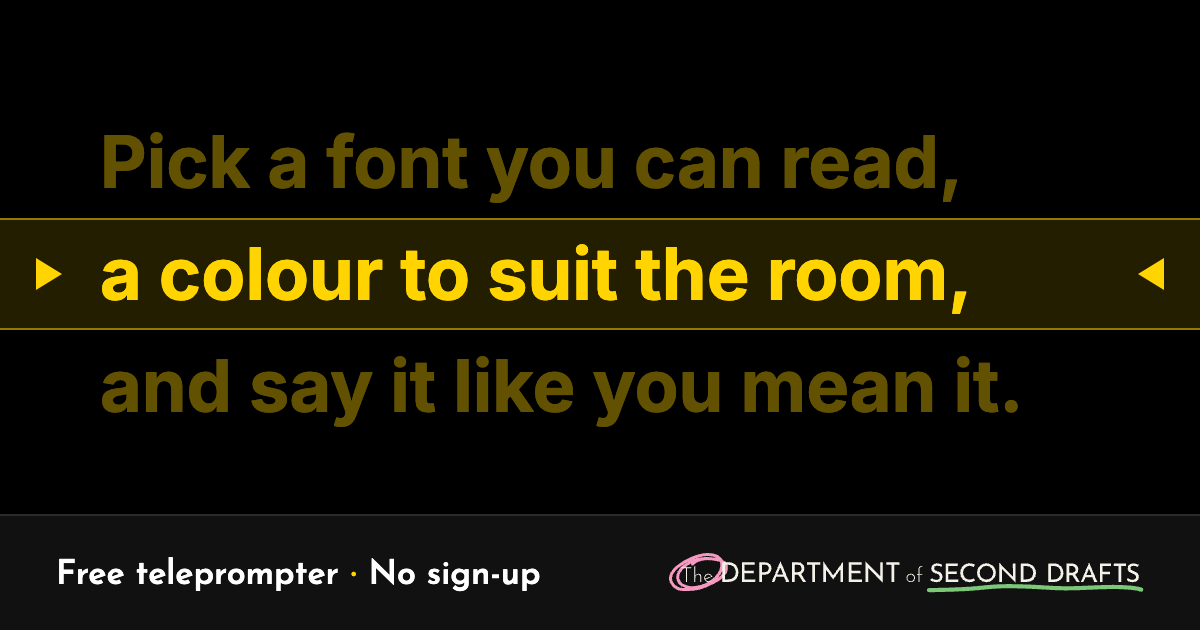
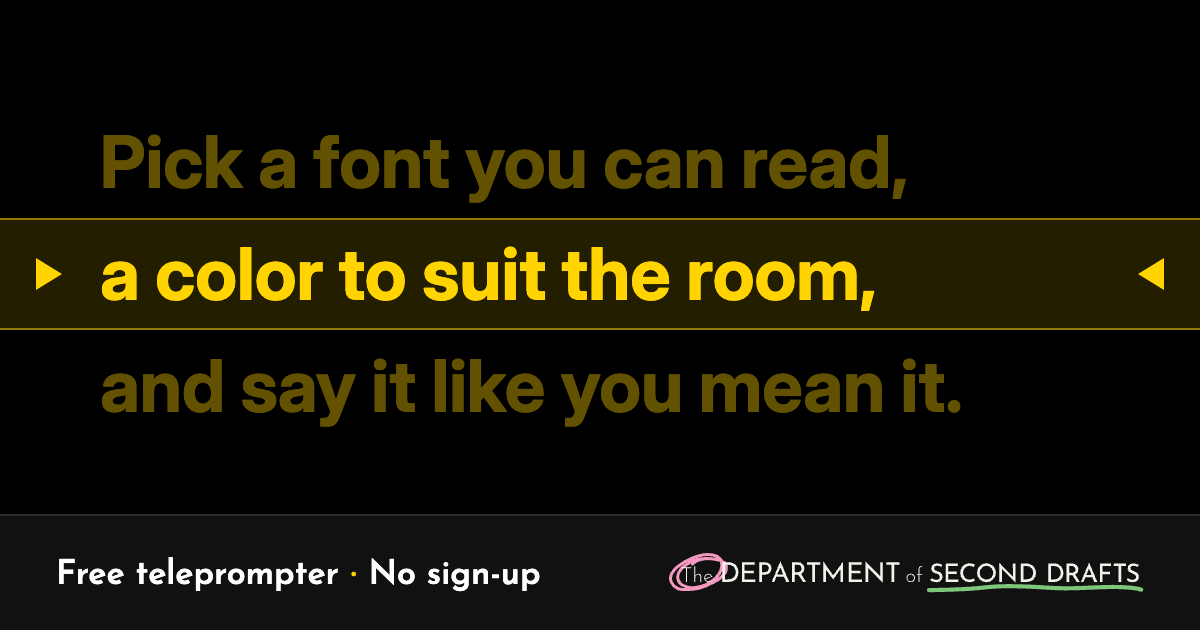
Switch the site to American spelling
Copy, code names, comments, docs and privacy records now use American
spelling, and organisation.ts is renamed organization.ts. The
remember-analysed-draft purposeId stays as it is, because renaming it
would make the privacy lock treat it as a new purpose. Closes pub-mga.

Changed region(s): [[0.0925, 0.5429, 0.8633, 0.6937], [0.0925, 0.3921, 0.8017, 0.5127], [0.0925, 0.2111, 0.8017, 0.3317]]

diff --git a/src/tools/magic-8-ball/lib/share-card.ts b/src/tools/magic-8-ball/lib/share-card.ts
@@ -15,12 +15,12 @@ const QUESTION_MAX_LINES = 4;
 const ELLIPSIS = "…";
 
 const GROUND = "#05060c";
-const VIGNETTE_CENTRE = "#141238";
-const META_COLOUR = "#9a9bbd";
-const QUESTION_COLOUR = "#ecebf5";
-const TRIANGLE_COLOUR = "#1f2cff";
+const VIGNETTE_CENTER = "#141238";
+const META_COLOR = "#9a9bbd";
+const QUESTION_COLOR = "#ecebf5";
+const TRIANGLE_COLOR = "#1f2cff";
 const TRIANGLE_GLOW = "#3b5bff";
-const ANSWER_COLOUR = "#f4f6ff";
+const ANSWER_COLOR = "#f4f6ff";
 
 type Measure = (text: string) => number;
 
@@ -69,21 +69,21 @@ function paintGround(ctx: CanvasRenderingContext2D, size: number): void {
 	ctx.fillStyle = GROUND;
 	ctx.fillRect(0, 0, size, size);
 	const vignette = ctx.createRadialGradient(size / 2, size * 0.55, 0, size / 2, size * 0.55, size * 0.75);
-	vignette.addColorStop(0, VIGNETTE_CENTRE);
+	vignette.addColorStop(0, VIGNETTE_CENTER);
 	vignette.addColorStop(1, GROUND);
 	ctx.fillStyle = vignette;
 	ctx.fillRect(0, 0, size, size);
 }
 
-function setFont(ctx: CanvasRenderingContext2D, font: string, colour: string): void {
+function setFont(ctx: CanvasRenderingContext2D, font: string, color: string): void {
 	ctx.font = font;
-	ctx.fillStyle = colour;
+	ctx.fillStyle = color;
 	ctx.textAlign = "center";
 	ctx.textBaseline = "middle";
 }
 
 function paintMeta(ctx: CanvasRenderingContext2D, text: string, y: number, unit: number): void {
-	setFont(ctx, `400 ${26 * unit}px "IBM Plex Mono"`, META_COLOUR);
+	setFont(ctx, `400 ${26 * unit}px "IBM Plex Mono"`, META_COLOR);
 	ctx.letterSpacing = `${3 * unit}px`;
 	ctx.fillText(text, ctx.canvas.width / 2 + 1.5 * unit, y);
 	ctx.letterSpacing = "0px";
@@ -93,7 +93,7 @@ function paintQuestion(ctx: CanvasRenderingContext2D, question: string, unit: nu
 	const silent = question.trim() === "";
 	const fontSize = 52 * unit;
 	const lineHeight = 70 * unit;
-	setFont(ctx, `${silent ? "italic " : ""}400 ${fontSize}px "Literata"`, QUESTION_COLOUR);
+	setFont(ctx, `${silent ? "italic " : ""}400 ${fontSize}px "Literata"`, QUESTION_COLOR);
 	const measure: Measure = (text) => ctx.measureText(text).width;
 	const lines = silent
 		? [SILENT_QUESTION]
@@ -105,17 +105,17 @@ function paintQuestion(ctx: CanvasRenderingContext2D, question: string, unit: nu
 function paintTriangle(ctx: CanvasRenderingContext2D, answerText: string, unit: number): void {
 	const width = 700 * unit;
 	const height = 606 * unit;
-	const centreX = ctx.canvas.width / 2;
+	const centerX = ctx.canvas.width / 2;
 	const top = 440 * unit;
 
 	ctx.save();
 	ctx.shadowColor = TRIANGLE_GLOW;
 	ctx.shadowBlur = 90 * unit;
-	ctx.fillStyle = TRIANGLE_COLOUR;
+	ctx.fillStyle = TRIANGLE_COLOR;
 	ctx.beginPath();
-	ctx.moveTo(centreX, top);
-	ctx.lineTo(centreX + width / 2, top + height);
-	ctx.lineTo(centreX - width / 2, top + height);
+	ctx.moveTo(centerX, top);
+	ctx.lineTo(centerX + width / 2, top + height);
+	ctx.lineTo(centerX - width / 2, top + height);
 	ctx.closePath();
 	ctx.fill();
 	ctx.restore();
@@ -136,8 +136,8 @@ function paintTriangle(ctx: CanvasRenderingContext2D, answerText: string, unit: 
 			},
 		},
 	);
-	setFont(ctx, fontFor(fit.fontSize), ANSWER_COLOUR);
-	for (const line of fit.lines) ctx.fillText(line.text, centreX, top + line.y);
+	setFont(ctx, fontFor(fit.fontSize), ANSWER_COLOR);
+	for (const line of fit.lines) ctx.fillText(line.text, centerX, top + line.y);
 }
 
 export async function loadShareCardFonts(): Promise<void> {

diff --git a/src/tools/teleprompter/lib/stage.test.ts b/src/tools/teleprompter/lib/stage.test.ts
@@ -41,7 +41,7 @@ describe("stageLook", () => {
 		expect(look.guide).toBe("arrows");
 	});
 
-	it("uses the custom colours for the custom theme", () => {
+	it("uses the custom colors for the custom theme", () => {
 		const custom = { text: "#123456", background: "#abcdef" };
 		const look = stageLook(settings({ theme: "custom", custom }));
 		expect(look.vars["--tp-fg"]).toBe(custom.text);
@@ -50,13 +50,13 @@ describe("stageLook", () => {
 		expect(stageLook(settings({ theme: "custom", custom, guideColor: "#ff0000" })).vars["--tp-guide"]).toBe("#ff0000");
 	});
 
-	it("centres the column by default and passes the position through", () => {
+	it("centers the column by default and passes the position through", () => {
 		expect(stageLook(settings()).vars["--tp-colpos"]).toBe("0.5");
 		expect(stageLook(settings({ columnPosition: 0 })).vars["--tp-colpos"]).toBe("0");
 		expect(stageLook(settings({ columnPosition: 1 })).vars["--tp-colpos"]).toBe("1");
 	});
 
-	it("uses the guide colour override in every theme, and the theme's own for auto", () => {
+	it("uses the guide color override in every theme, and the theme's own for auto", () => {
 		expect(stageLook(settings({ theme: "paper", guideColor: "#5b8fdb" })).vars["--tp-guide"]).toBe("#5b8fdb");
 		expect(stageLook(settings({ theme: "paper", guideColor: "auto" })).vars["--tp-guide"]).toBe(
 			THEMES.paper.colors.guide,
@@ -88,13 +88,13 @@ describe("relativeLuminance", () => {
 		expect(relativeLuminance("#fff")).toBeCloseTo(1, 6);
 	});
 
-	it("matches the WCAG value for a mid grey", () => {
+	it("matches the WCAG value for a mid gray", () => {
 		// #777777: channel 0.4667 → linear 0.1845
 		expect(relativeLuminance("#777777")).toBeCloseTo(0.1845, 3);
 	});
 
-	it("treats an invalid colour as black", () => {
-		expect(relativeLuminance("not a colour")).toBeNull();
+	it("treats an invalid color as black", () => {
+		expect(relativeLuminance("not a color")).toBeNull();
 	});
 });
 

diff --git a/src/tools/magic-8-ball/lib/triangle-text.ts b/src/tools/magic-8-ball/lib/triangle-text.ts
@@ -21,7 +21,7 @@ export interface TriangleFitOptions {
 	measure: (text: string, fontSize: number) => number;
 }
 
-export const PREFERRED_CENTRE_RATIO = 0.64;
+export const PREFERRED_CENTER_RATIO = 0.64;
 
 interface Placement {
 	lines: FittedLine[];
@@ -74,13 +74,13 @@ function wrapIntoLineCount(
 
 function placeLines(
 	lines: string[],
-	centre: number,
+	center: number,
 	fontSize: number,
 	box: TriangleBox,
 	options: TriangleFitOptions,
 ): Placement {
 	const lineBoxHeight = fontSize * options.lineHeight;
-	const blockTop = centre - (lines.length * lineBoxHeight) / 2;
+	const blockTop = center - (lines.length * lineBoxHeight) / 2;
 	const placed = lines.map((text, index) => ({
 		text,
 		y: blockTop + (index + 0.5) * lineBoxHeight,
@@ -95,14 +95,14 @@ function placeLines(
 
 function placeLowEnough(lines: string[], fontSize: number, box: TriangleBox, options: TriangleFitOptions): Placement {
 	const blockHeight = lines.length * fontSize * options.lineHeight;
-	const lowestCentre = Math.max(box.height - blockHeight / 2, PREFERRED_CENTRE_RATIO * box.height);
-	const preferred = placeLines(lines, PREFERRED_CENTRE_RATIO * box.height, fontSize, box, options);
+	const lowestCenter = Math.max(box.height - blockHeight / 2, PREFERRED_CENTER_RATIO * box.height);
+	const preferred = placeLines(lines, PREFERRED_CENTER_RATIO * box.height, fontSize, box, options);
 	if (preferred.overflow <= 0) return preferred;
-	const lowest = placeLines(lines, lowestCentre, fontSize, box, options);
+	const lowest = placeLines(lines, lowestCenter, fontSize, box, options);
 	if (lowest.overflow > 0) return lowest;
 
-	let high = lowestCentre;
-	let low = PREFERRED_CENTRE_RATIO * box.height;
+	let high = lowestCenter;
+	let low = PREFERRED_CENTER_RATIO * box.height;
 	for (let iteration = 0; iteration < 10; iteration++) {
 		const middle = (low + high) / 2;
 		if (placeLines(lines, middle, fontSize, box, options).overflow <= 0) high = middle;

diff --git a/scripts/privacy-scan.ts b/scripts/privacy-scan.ts
@@ -19,7 +19,7 @@ import {
 	type RecordedRequest,
 	type ScanState,
 } from "../src/lib/privacy/scan.ts";
-import { DOMAIN } from "../src/lib/privacy/organisation.ts";
+import { DOMAIN } from "../src/lib/privacy/organization.ts";
 
 const { compressToEncodedURIComponent } = lzString;
 
@@ -297,13 +297,13 @@ async function askTheBall(page: Page): Promise<void> {
 	await page.keyboard.press("Escape");
 }
 
-async function analyseDraft(page: Page): Promise<void> {
+async function analyzeDraft(page: Page): Promise<void> {
 	await page.fill("#da-text", SENTINEL);
 	await page.waitForTimeout(DRAFT_SETTLE_MS);
 	await page.click("#da-rhythm-strip");
 }
 
-async function analyseSprintDraft(page: Page): Promise<void> {
+async function analyzeSprintDraft(page: Page): Promise<void> {
 	await page.waitForFunction(
 		(sentinel) => (document.querySelector<HTMLTextAreaElement>("#da-text")?.value ?? "").includes(sentinel),
 		SENTINEL,
@@ -316,12 +316,12 @@ const TOOLS_VISITORS_WRITE_IN: WritingTool[] = [
 	{ name: "teleprompter editor", path: TELEPROMPTER_PATH, write: typeAndPlayScript },
 	{ name: "word counter", path: "/tools/word-counter/", write: countWords },
 	{ name: "writing sprint", path: "/tools/writing-sprint/", write: writeSprint },
-	{ name: "draft analysis", path: DRAFT_ANALYSIS_PATH, write: analyseDraft },
+	{ name: "draft analysis", path: DRAFT_ANALYSIS_PATH, write: analyzeDraft },
 	{ name: "magic 8 ball", path: "/tools/magic-8-ball/", write: askTheBall },
 	{
 		name: "draft analysis from a sprint",
 		path: `${DRAFT_ANALYSIS_PATH}#s=${ENCODED_SPRINT_HANDOFF_PAYLOAD}`,
-		write: analyseSprintDraft,
+		write: analyzeSprintDraft,
 	},
 	{
 		name: "continuity checker waitlist",

diff --git a/src/tools/teleprompter/lib/settings.test.ts b/src/tools/teleprompter/lib/settings.test.ts
@@ -86,7 +86,7 @@ describe("validateSettings", () => {
 		});
 	});
 
-	describe("custom colours", () => {
+	describe("custom colors", () => {
 		it("normalizes #rgb and uppercase to lowercase #rrggbb", () => {
 			const r = validateSettings({ custom: { text: "#ABC", background: "#FFAA00", guide: "#0f0" } });
 			expect(r.custom).toEqual({ text: "#aabbcc", background: "#ffaa00" });
@@ -106,7 +106,7 @@ describe("validateSettings", () => {
 			"red; background:url(x)",
 			5,
 			null,
-		])("rejects %j per colour", (bad) => {
+		])("rejects %j per color", (bad) => {
 			const r = validateSettings({ custom: { text: bad, background: "#000", guide: bad } });
 			expect(r.custom).toEqual({ text: "#ffffff", background: "#000000" });
 		});
@@ -159,14 +159,14 @@ describe("validateSettings", () => {
 		expect(validateSettings({}).arrowKeys).toBe("paragraphs");
 	});
 
-	it("accepts a guide colour of auto or a hex, normalised", () => {
+	it("accepts a guide color of auto or a hex, normalized", () => {
 		expect(validateSettings({ guideColor: "auto" }).guideColor).toBe("auto");
 		expect(validateSettings({ guideColor: "#ABC" }).guideColor).toBe("#aabbcc");
 		expect(validateSettings({ guideColor: "red" }).guideColor).toBe("auto");
 		expect(validateSettings({}).guideColor).toBe("auto");
 	});
 
-	it("clamps the column position to 0–1 and defaults to centred", () => {
+	it("clamps the column position to 0–1 and defaults to centered", () => {
 		expect(validateSettings({}).columnPosition).toBe(0.5);
 		expect(validateSettings({ columnPosition: -2 }).columnPosition).toBe(0);
 		expect(validateSettings({ columnPosition: 7 }).columnPosition).toBe(1);

diff --git a/src/tools/teleprompter/lib/themes.test.ts b/src/tools/teleprompter/lib/themes.test.ts
@@ -8,7 +8,7 @@ describe("contrastRatio", () => {
 		expect(contrastRatio("#000000", "#ffffff")).toBeCloseTo(21, 10);
 	});
 
-	it("gives 1 for the same colour", () => {
+	it("gives 1 for the same color", () => {
 		expect(contrastRatio("#3a7bd5", "#3a7bd5")).toBe(1);
 	});
 
@@ -30,7 +30,7 @@ describe("contrastRatio", () => {
 	});
 
 	it("returns 1 for invalid input", () => {
-		expect(contrastRatio("not a colour", "#ffffff")).toBe(1);
+		expect(contrastRatio("not a color", "#ffffff")).toBe(1);
 		expect(contrastRatio("#ffffff", "#ffff")).toBe(1);
 		expect(contrastRatio("#gggggg", "#000000")).toBe(1);
 		expect(contrastRatio("", "")).toBe(1);
@@ -54,16 +54,16 @@ describe("THEMES contrast", () => {
 	});
 });
 
-describe("guide colour and band contrast", () => {
+describe("guide color and band contrast", () => {
 	const base = validateSettings({});
 
-	it("uses the theme's guide colour on auto and the override otherwise", () => {
+	it("uses the theme's guide color on auto and the override otherwise", () => {
 		expect(resolveTheme({ ...base, theme: "classic" }).guide).toBe(THEMES.classic.colors.guide);
 		expect(resolveTheme({ ...base, theme: "classic", guideColor: "#f499bf" }).guide).toBe("#f499bf");
 		expect(resolveTheme({ ...base, theme: "custom", guideColor: "#7cc778" }).guide).toBe("#7cc778");
 	});
 
-	it("mixes colours like a translucent layer", () => {
+	it("mixes colors like a translucent layer", () => {
 		expect(mixHex("#ffffff", "#000000", 0)).toBe("#000000");
 		expect(mixHex("#ffffff", "#000000", 1)).toBe("#ffffff");
 		expect(mixHex("#ffffff", "#000000", 0.5)).toBe("#808080");

diff --git a/src/tools/teleprompter/settings-panel.ts b/src/tools/teleprompter/settings-panel.ts
@@ -137,10 +137,7 @@ export function mountSettingsPanel(root: HTMLElement, store: Store): void {
 		if (ratio !== null && ratio < MIN_CONTRAST) {
 			// Round down, so a ratio just under the line never reads as "4.5:1".
 			const shown = `${(Math.floor(ratio * 10) / 10).toFixed(1)}:1`;
-			showWarning(
-				bandWarn,
-				`The band makes the line hard to read: ${shown}. Lower the opacity or pick another colour.`,
-			);
+			showWarning(bandWarn, `The band makes the line hard to read: ${shown}. Lower the opacity or pick another color.`);
 		} else {
 			clearWarning(bandWarn);
 		}
@@ -201,7 +198,7 @@ export function mountSettingsPanel(root: HTMLElement, store: Store): void {
 	resetButton.addEventListener("click", async () => {
 		const confirmed = await askConfirm({
 			title: "Reset all settings?",
-			body: "Font, colours, layout and playback go back to their defaults. Your script stays as it is.",
+			body: "Font, colors, layout and playback go back to their defaults. Your script stays as it is.",
 			confirmLabel: "Reset settings",
 			cancelLabel: "Keep them",
 		});

diff --git a/src/tools/magic-8-ball/ball-webgl.ts b/src/tools/magic-8-ball/ball-webgl.ts
@@ -116,7 +116,7 @@ const TEXTURED_UNIFORMS = ["projection", "modelView", "opacity", "fogged"] as co
 const glslFloat = (value: number) => (Number.isInteger(value) ? value.toFixed(1) : String(value));
 const glslVector = (vector: readonly number[]) => `vec${vector.length}(${vector.map(glslFloat).join(", ")})`;
 
-/** Clear at the glass, solid water at the chamber floor, mixed in display colours as three's fog was. */
+/** Clear at the glass, solid water at the chamber floor, mixed in display colors as three's fog was. */
 const WATER_FOG = `
 	vec3 underWater(vec3 color, float viewDepth) {
 		float depth = smoothstep(${glslFloat(CAMERA_DISTANCE - GLASS_Z)}, ${glslFloat(CAMERA_DISTANCE - LIQUID_FLOOR_Z)}, viewDepth);
@@ -258,7 +258,7 @@ function seededRandom(seed: number) {
 	};
 }
 
-/** Soft blobs in the cloud's final colour: the pale blue three's tint made of them. */
+/** Soft blobs in the cloud's final color: the pale blue three's tint made of them. */
 function drawCloud() {
 	const size = 256;
 	const canvas = document.createElement("canvas");

diff --git a/src/lib/privacy/judgments.test.ts b/src/lib/privacy/judgments.test.ts
@@ -131,11 +131,11 @@ describe("reviewChanges", () => {
 		expect(review.toCheck).toHaveLength(1);
 	});
 
-	it("asks a person to confirm the role of a new or relabelled vendor", async () => {
+	it("asks a person to confirm the role of a new or relabeled vendor", async () => {
 		const added = await reviewsAfter((next) => (next.vendors.other = { ...next.vendors.stats, name: "Other" }));
-		const relabelled = await reviewsAfter((next) => (next.vendors.stats.role = "controller"));
+		const relabeled = await reviewsAfter((next) => (next.vendors.stats.role = "controller"));
 		const moved = await reviewsAfter((next) => (next.vendors.stats.category = "necessary"));
-		for (const [review] of [added, relabelled, moved]) {
+		for (const [review] of [added, relabeled, moved]) {
 			expect(review.outcome).toBe("role-confirmed");
 			expect(review.toCheck.join()).toContain("https://stats.example/privacy");
 		}

diff --git a/src/lib/privacy/registry.ts b/src/lib/privacy/registry.ts
@@ -128,7 +128,7 @@ export const STORAGE = {
 		area: "local",
 		category: "necessary",
 		purposeId: "remember-display-settings",
-		purpose: "Remembers how you set up the teleprompter, such as font, text size and colours.",
+		purpose: "Remembers how you set up the teleprompter, such as font, text size and colors.",
 		retention: "until-cleared",
 	},
 	"wc:text": {
@@ -152,7 +152,7 @@ export const STORAGE = {
 		area: "local",
 		category: "necessary",
 		purposeId: "remember-analysed-draft",
-		purpose: "Keeps the draft you're analysing in your browser, so it's still there when you come back.",
+		purpose: "Keeps the draft you're analyzing in your browser, so it's still there when you come back.",
 		retention: "until-cleared",
 	},
 	"wc:settings:v1": {

diff --git a/src/lib/forms/submission.ts b/src/lib/forms/submission.ts
@@ -37,10 +37,10 @@ export function parseSignup(body: unknown): Signup | null {
 	if (typeof form !== "string" || !FORM_PATTERN.test(form)) return null;
 	if (typeof email !== "string") return null;
 
-	const normalisedEmail = email.trim().toLowerCase();
-	if (normalisedEmail.length > MAX_EMAIL_LENGTH || !EMAIL_PATTERN.test(normalisedEmail)) return null;
+	const normalizedEmail = email.trim().toLowerCase();
+	if (normalizedEmail.length > MAX_EMAIL_LENGTH || !EMAIL_PATTERN.test(normalizedEmail)) return null;
 
-	return { form, email: normalisedEmail, earlyAccess: earlyAccess === true };
+	return { form, email: normalizedEmail, earlyAccess: earlyAccess === true };
 }
 
 export function parseSurveyAnswers(body: unknown): SurveyAnswers | null {

diff --git a/src/pages/sandbox/_components/themes.ts b/src/pages/sandbox/_components/themes.ts
@@ -12,7 +12,7 @@ export const SANDBOX_PAGES = [
 	{
 		href: "/sandbox/tokens",
 		label: "Tokens",
-		description: "Colour per theme, type styles, space, radius, stroke and shadow, read from tokens.json.",
+		description: "Color per theme, type styles, space, radius, stroke and shadow, read from tokens.json.",
 	},
 	{
 		href: "/sandbox/button",
@@ -29,7 +29,7 @@ export const SANDBOX_PAGES = [
 	{
 		href: "/sandbox/text-field",
 		label: "TextField",
-		description: "Labelled inputs and textareas, with hints and errors.",
+		description: "Labeled inputs and textareas, with hints and errors.",
 	},
 	{
 		href: "/sandbox/choice-field",
